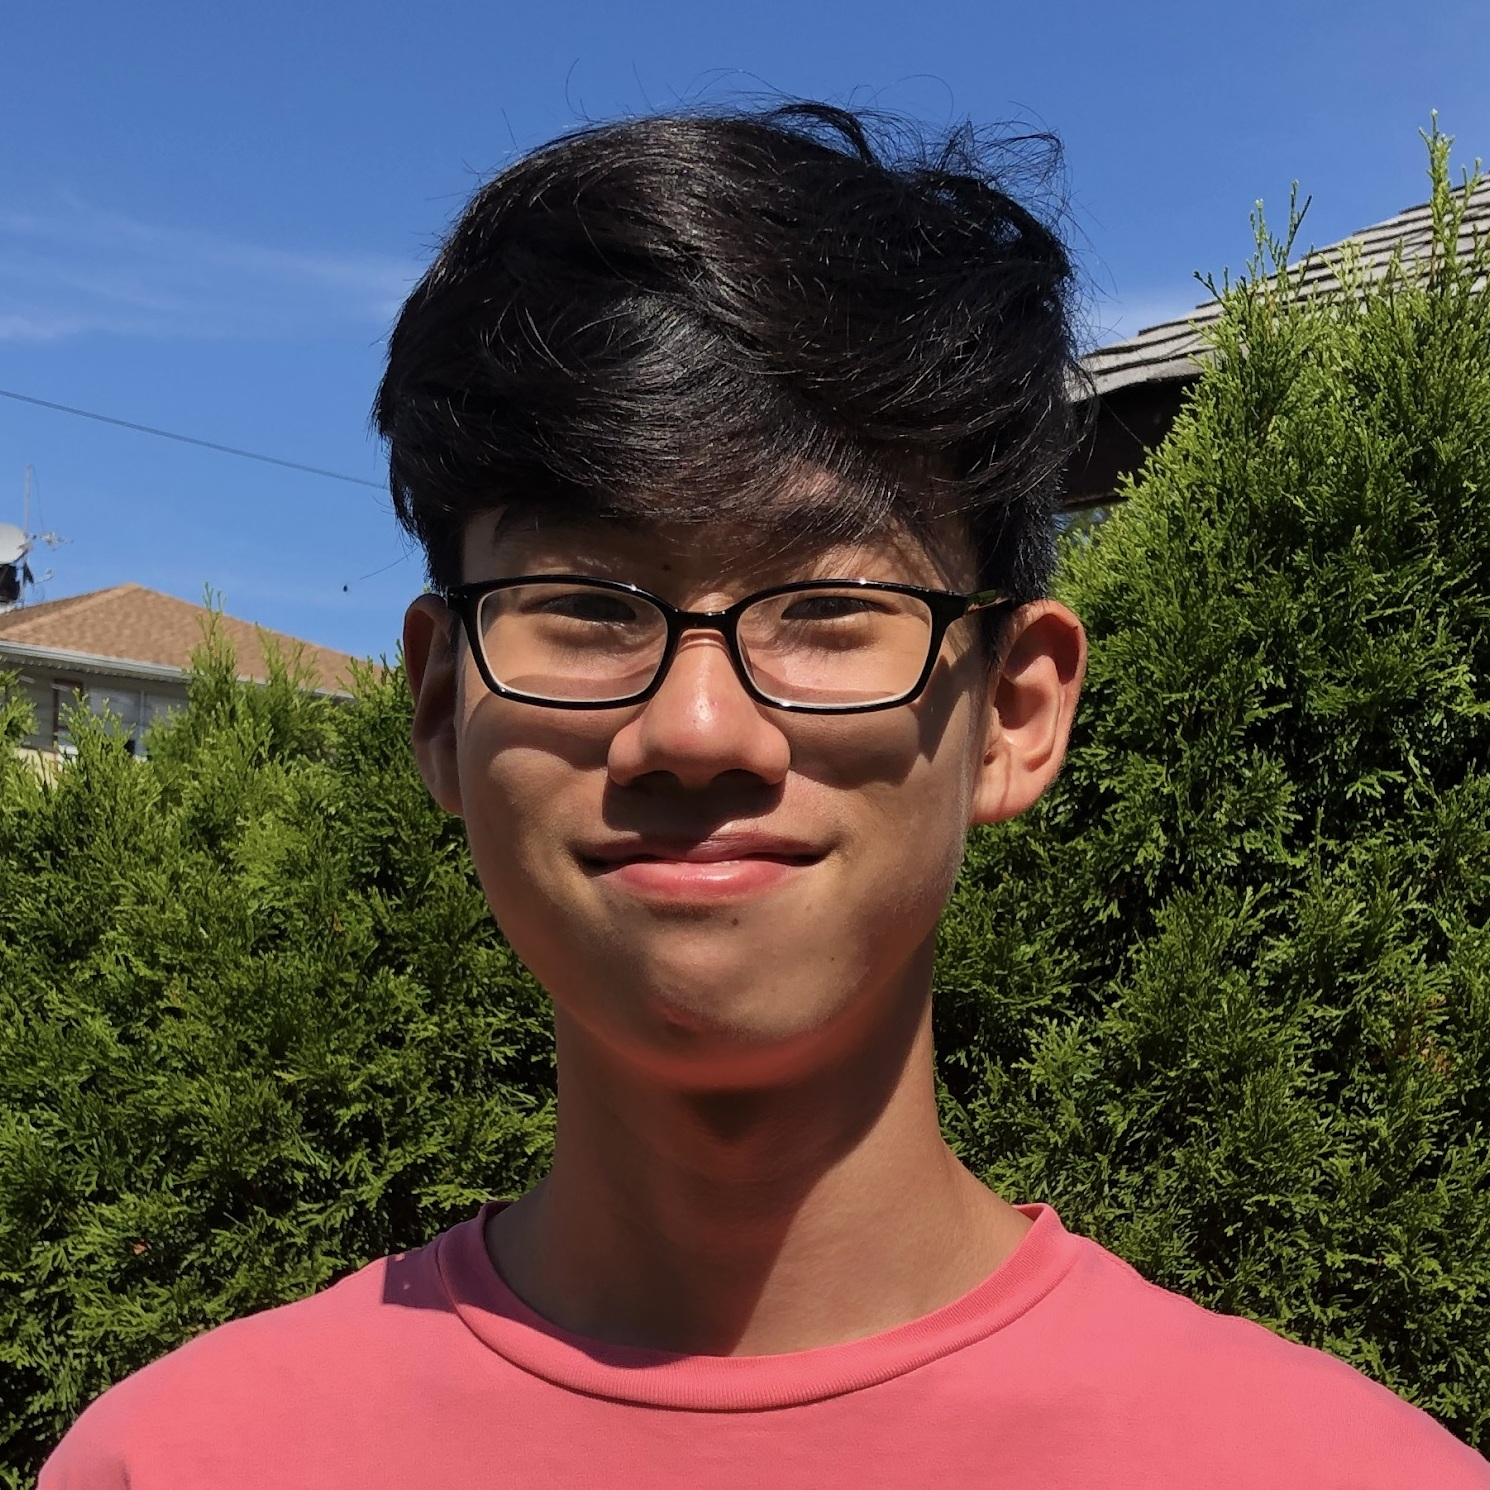
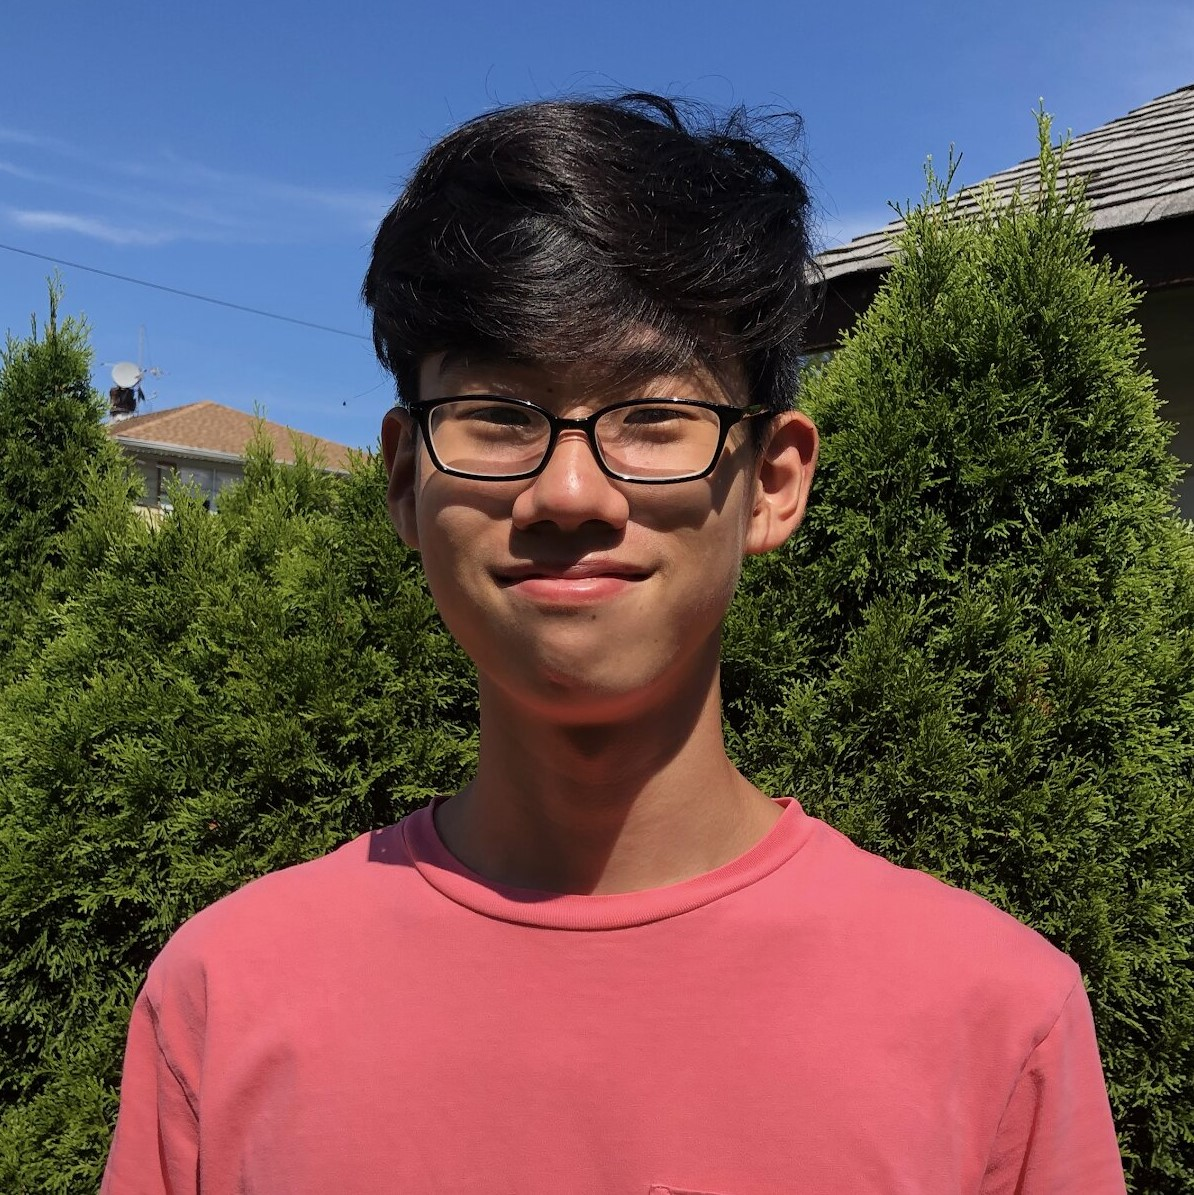
bio + headshots update

diff --git a/scripts/teamHeadshot.js b/scripts/teamHeadshot.js
@@ -318,7 +318,7 @@ let membersObj = [
 	home: "Woodstock, MD",
 	team: ["development", "speaker series"],
 	src: "SaiNaraharisetti.jpg",
-	bio: "Sai is currently a student at Marriotts Ridge High School. She didn’t consider computer science as a career at first. She wanted to pursue a career where she would have a positive impact on the world and its people. Her freshman year, she took both AP Computer Science Principles and Principals of Java Programming GT. After taking these courses, she felt a new love for computer science that she did not feel for any other field. She is currently a member of an FTC Robotics team that has qualified for the 2020 World Championship in both Maryland and Virginia. She is currently a research intern at the University of Maryland (UMD) where she works on the secure public key infrastructure project. She also partook in a research project with a computer science professor at the University of Maryland and his team of a few other Ph.D. and Master’s students her sophomore year. She aided in the research of the linkage between abnormal breathing patterns and certain respiratory and cardiovascular health conditions. Additionally, she is a co-president of the Model UN club in her school and actively participates in the Future Business Leaders of America (FBLA) club. She has taken AP Computer Science- A her sophomore year to expand her knowledge in Java and is currently taking Advanced Data Structures. Having pursued these courses, she is on the path to completing the Computer Programming Academy. She intends to complete this academy, hoping to major in computer science, with a strong foundation of the fundamentals."
+	bio: "Sai is a motivated and hardworking senior at Marriotts Ridge High School. She hopes to double major in computer science and business. She joined STEMchats to help break barriers for monitories in STEM and make more opportunities available to them. In her free time, Sai likes to play volleyball, paint, quill, and watch tv shows."
 },
 {
 	name: "Esha Sharma",
@@ -401,7 +401,7 @@ let membersObj = [
 	home: "Tucson, AZ",
 	team: "blueprint",
 	src: "AprilZhang.jpg",
-	bio: "April is an advocate for equitable opportunity and environmentalism. She is a senior at BASIS Oro Valley in Arizona and aspires to be a biomedical sciences and CS double major. She joined STEMchats to help provide transformative and educational opportunities to low-income, underprivileged, minority students. A driven opponent of animal cruelty, April has been lacto-vegetarian for 6 years and counting. In her free time, she loves to practice piano, meditate with family, play tennis with friends, or be found with a large cup of rose-flavored boba tea."
+	bio: "April is an advocate for equitable opportunity and environmentalism. She is a freshman at University of California, Berkeley as an Electrical Engineering and Computer Science major. She joined STEMchats to help provide transformative and educational opportunities to low-income, underprivileged, minority students. A driven opponent of animal cruelty, April has been lacto-vegetarian for 6 years and counting. In her free time, she loves to practice piano, meditate with family, play tennis with friends, or be found with a large cup of rose-flavored boba tea."
 }, {
 	name: "Audrey Vargas",
 	position: "Blueprint Coordinator",
@@ -465,7 +465,7 @@ let membersObj = [
 	home: "Colonie, NY",
 	team: "STEMlights",
 	src: "TylerVazquez.jpg",
-	bio: "Tyler is honored to be an intern for STEMchats! He is a rising junior at Colonie Central High School in Upstate New York, participating in his community through his school's Black Lives Advocacy Club (Co-President and Founder) Drama Club, STEM Club (VP), Global Diversity Club (Secretary), and the Mental Health Awareness Club (Co-President). He also takes part in securing renewable energy resources for upstate New Yorkers through Common Energy as well as directing a student-run Shakespearean theatrical company. He hopes that via STEMchats he'll share his passion for STEM in an intersectional lens."
+	bio: "Tyler (he/they) is a rising senior at Colonie Central High School in Albany, New York. They are a program coordinator for the STEMLights Newsletter, curating the History x STEM section. He is passionate about theatrical direction, singing, medicine, and social justice."
 }, {
 	name: "Dorcas Gadri",
 	position: "STEMlights Coordinator",
